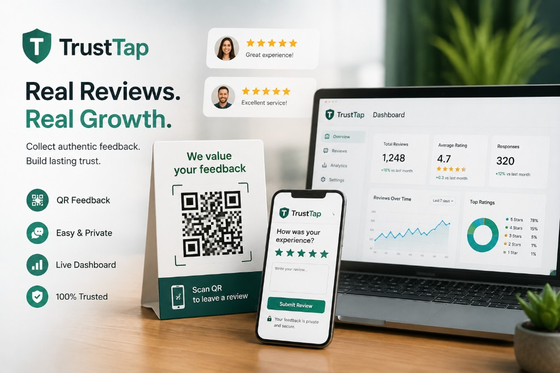
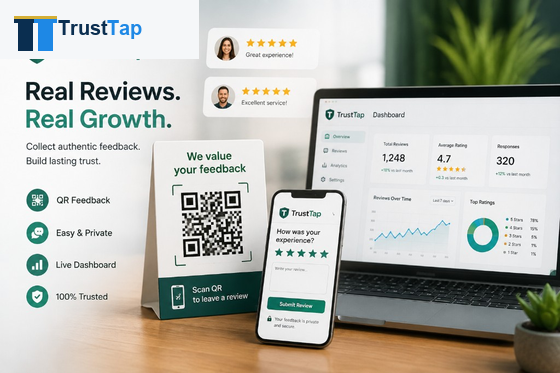
Update TrustTap hero with the new branded marketing visual.
Swap the product page showcase to the refreshed TrustTap artwork and keep a script for regenerating legacy hero PNG logos when needed.

Changed region(s): [[0.0304, 0.0295, 0.2732, 0.1769], [0.2429, 0.0, 0.3643, 0.1475]]

diff --git a/frontend/src/lib/trustTapPageContent.ts b/frontend/src/lib/trustTapPageContent.ts
@@ -35,14 +35,14 @@ export const TRUSTTAP_HERO = {
 
 /** Hero right column — TrustTap product marketing visual. */
 export const TRUSTTAP_HERO_SHOWCASE = {
-  ariaLabel: "TrustTap marketing visual with QR stand, mobile review flow, and analytics dashboard",
+  ariaLabel: "TrustTap marketing visual with QR stand, mobile feedback flow, analytics dashboard, and updated brand logo",
   image: {
-    src: "/assets/trusttap/trusttap-hero-showcase.png",
+    src: "/assets/trusttap/trusttap-hero-marketing.png",
     srcSet:
-      "/assets/trusttap/trusttap-hero-showcase.png 1x, /assets/trusttap/trusttap-hero-showcase@2x.png 2x",
-    alt: "TrustTap product showcase with QR feedback, mobile review form, and live dashboard — Real Reviews, Real Growth",
-    width: 560,
-    height: 373,
+      "/assets/trusttap/trusttap-hero-marketing.png 1x, /assets/trusttap/trusttap-hero-marketing@2x.png 2x",
+    alt: "TrustTap — Tap. Trust. Thrive. QR feedback, Google review path, live dashboard, and private customer notes for local businesses",
+    width: 1024,
+    height: 682,
   },
 } as const;
 

diff --git a/frontend/src/lib/trustTapPageContent.test.ts b/frontend/src/lib/trustTapPageContent.test.ts
@@ -17,8 +17,8 @@ describe("trustTapPageContent", () => {
   });
 
   it("references the live-site hero showcase image", () => {
-    expect(TRUSTTAP_HERO_SHOWCASE.image.src).toMatch(/trusttap-hero-showcase\.png$/);
-    expect(TRUSTTAP_HERO_SHOWCASE.image.srcSet).toMatch(/trusttap-hero-showcase@2x\.png/);
+    expect(TRUSTTAP_HERO_SHOWCASE.image.src).toMatch(/trusttap-hero-marketing\.png$/);
+    expect(TRUSTTAP_HERO_SHOWCASE.image.srcSet).toMatch(/trusttap-hero-marketing@2x\.png/);
   });
 
   it("lists four live-site features and three benefit cards", () => {

diff --git a/frontend/src/components/trust-tap/TrustTapHeroShowcase.tsx b/frontend/src/components/trust-tap/TrustTapHeroShowcase.tsx
@@ -14,7 +14,7 @@ export default function TrustTapHeroShowcase() {
         className="trusttap-hero-showcase-image"
         src={preview.src}
         srcSet={preview.srcSet}
-        sizes="(min-width: 960px) 560px, 92vw"
+        sizes="(min-width: 960px) 640px, 92vw"
         alt={preview.alt}
         width={preview.width}
         height={preview.height}

diff --git a/frontend/src/styles/trustTap.css b/frontend/src/styles/trustTap.css
@@ -129,7 +129,7 @@
 
 .trusttap-hero-showcase-image {
   display: block;
-  width: min(100%, 560px);
+  width: min(100%, 640px);
   height: auto;
   margin-left: auto;
   border: 0;

diff --git a/frontend/scripts/update-trusttap-hero-logo.py b/frontend/scripts/update-trusttap-hero-logo.py
@@ -1,0 +1,76 @@
+#!/usr/bin/env python3
+"""Replace the legacy green-shield TrustTap mark on hero showcase PNGs."""
+from __future__ import annotations
+
+from pathlib import Path
+
+from PIL import Image, ImageDraw, ImageFont
+
+ROOT = Path(__file__).resolve().parents[1]
+ASSETS = ROOT / "public" / "assets" / "trusttap"
+
+NAVY = (10, 46, 80)
+AZURE = (30, 136, 229)
+GOLD = (212, 175, 55)
+CHALK = (245, 247, 249, 255)
+
+
+def load_font(size: int) -> ImageFont.FreeTypeFont | ImageFont.ImageFont:
+    for candidate in (
+        "C:/Windows/Fonts/arialbd.ttf",
+        "C:/Windows/Fonts/segoeuib.ttf",
+        "/usr/share/fonts/truetype/dejavu/DejaVuSans-Bold.ttf",
+    ):
+        path = Path(candidate)
+        if path.exists():
+            return ImageFont.truetype(str(path), size=size)
+    return ImageFont.load_default()
+
+
+def draw_monogram(draw: ImageDraw.ImageDraw, origin: tuple[int, int], scale: float) -> None:
+    x, y = origin
+    s = scale
+    # Left T (Prussian blue)
+    draw.rectangle((x + 8 * s, y + 8 * s, x + 22 * s, y + 42 * s), fill=NAVY)
+    draw.rectangle((x + 4 * s, y + 8 * s, x + 26 * s, y + 14 * s), fill=NAVY)
+    # Right T (Azure)
+    draw.rectangle((x + 28 * s, y + 8 * s, x + 42 * s, y + 42 * s), fill=AZURE)
+    draw.rectangle((x + 24 * s, y + 8 * s, x + 46 * s, y + 14 * s), fill=AZURE)
+    draw.rectangle((x + 4 * s, y + 8 * s, x + 46 * s, y + 10 * s), fill=GOLD)
+
+
+def patch_image(path: Path) -> None:
+    image = Image.open(path).convert("RGBA")
+    scale = max(1, round(image.width / 560))
+    overlay = Image.new("RGBA", image.size, (0, 0, 0, 0))
+    draw = ImageDraw.Draw(overlay)
+
+    patch_w = round(198 * scale)
+    patch_h = round(58 * scale)
+    draw.rectangle((0, 0, patch_w, patch_h), fill=CHALK)
+
+    draw_monogram(draw, (round(10 * scale), round(8 * scale)), scale)
+
+    font_size = max(14, round(20 * scale))
+    font = load_font(font_size)
+    text_x = round(58 * scale)
+    text_y = round(16 * scale)
+    draw.text((text_x, text_y), "Trust", fill=NAVY, font=font)
+
+    trust_w = draw.textlength("Trust", font=font) if hasattr(draw, "textlength") else font_size * 2.4
+    draw.text((text_x + int(trust_w), text_y), "Tap", fill=AZURE, font=font)
+
+    merged = Image.alpha_composite(image, overlay).convert("RGB")
+    merged.save(path, optimize=True)
+    print("patched", path, image.size)
+
+
+def main() -> None:
+    for name in ("trusttap-hero-showcase.png", "trusttap-hero-showcase@2x.png"):
+        target = ASSETS / name
+        if target.exists():
+            patch_image(target)
+
+
+if __name__ == "__main__":
+    main()
